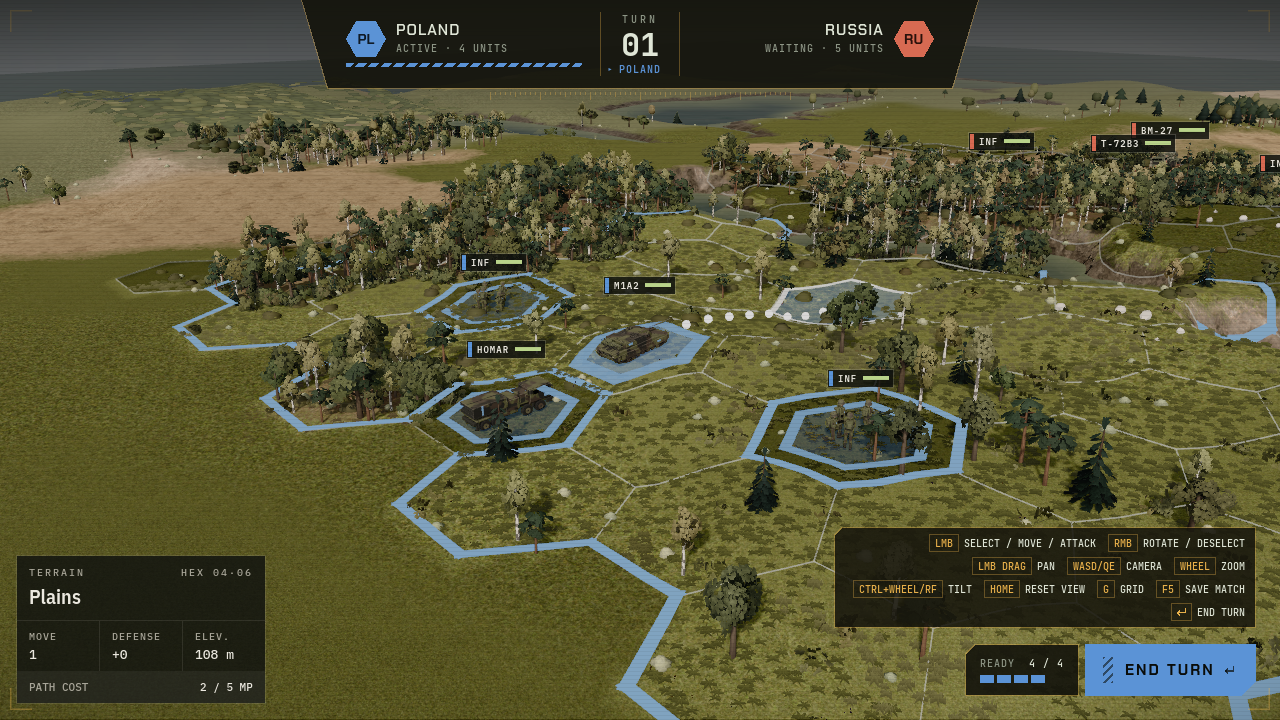
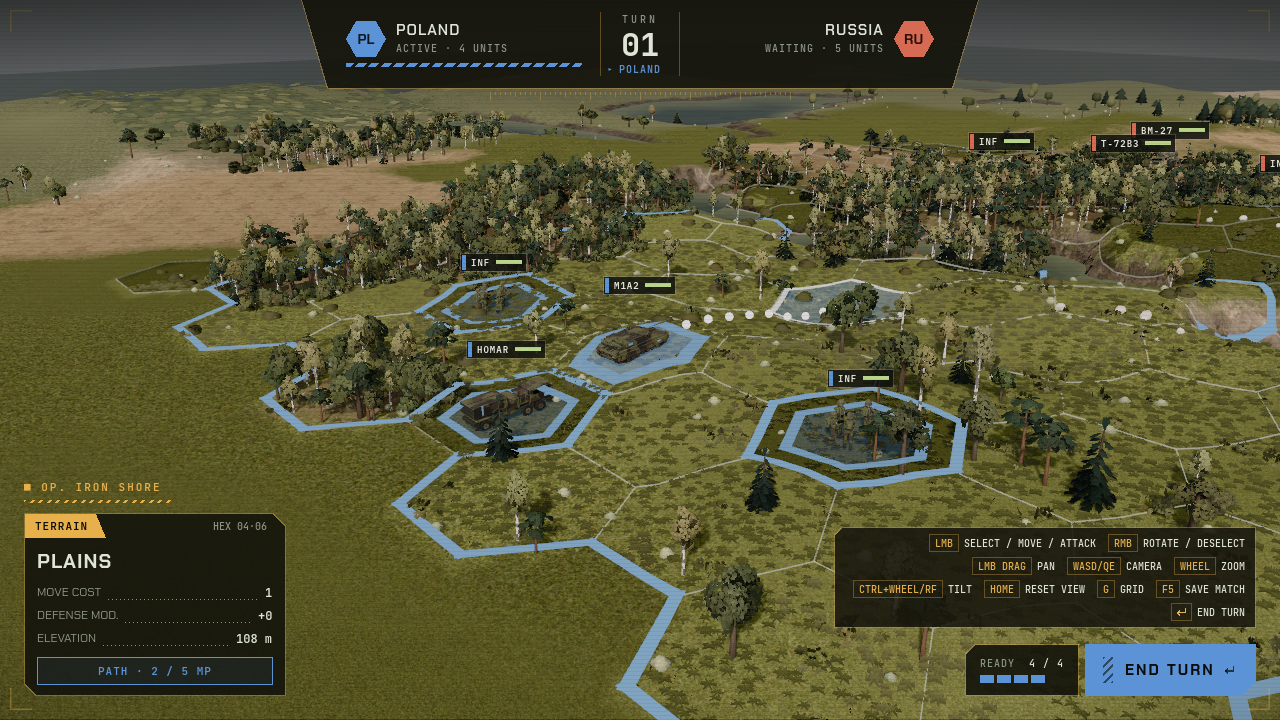
TASK-079: HUD v3 terrain card with dotted leaders, path row and operation label; playtested, done

diff --git a/docs/MANUAL.md b/docs/MANUAL.md
@@ -158,7 +158,7 @@ Russia is played by a simple computer opponent that follows the same rules as yo
   - **Stats**: Attack, Defense, Moves (left / per turn) and Range, each with its number and a short bar. Attack and Defense bars are full at 10, Moves and Range bars at 6. Defense includes the terrain bonus of the unit's tile, e.g. `5 (3+2)` on hills, and its bar shows that total.
   - **Mobility tag**: how the unit moves – FOOT (infantry), WHEELED (rocket artillery) or TRACKED (tanks). For now this is information only; all units pay the same movement costs.
   - **Status**: a small hexagon and a line saying READY (green), READY · ALREADY ATTACKED (green), DONE THIS TURN (grey) or ENEMY UNIT (in the enemy's colour).
-- **Terrain panel** (bottom left): the hovered tile's terrain, hex position (column·row), movement cost, defense bonus and elevation, plus the path cost when you have a unit selected and the tile is reachable.
+- **Terrain panel** (bottom left): the hovered tile's terrain, hex position (column·row), movement cost, defense bonus and elevation, plus a `PATH · 2 / 5 MP` row (in your faction colour) when you have a unit selected and the tile is reachable. Above the panel, `■ OP. IRON SHORE` names the operation.
 - **Selection**: selecting a unit outlines the area it can reach in your colour and slightly darkens the rest of the map; the tile under the cursor is tinted when the unit can move there. Water is never darkened, and unreachable tiles inside the area (such as a lake) get their own outline.
 - **Beyond the map edge**: the land around the map (a little greyer and paler, with trees on HIGH graphics) is scenery only. You can't hover or click tiles there, units can't go there, and the camera can't be panned off the map.
 - **Hex grid**: a faint light grid marks the hexes on land (not over water). It fades as you zoom out and is a little stronger while a unit is selected. Press **G** to hide or show it.

diff --git a/docs/tasks/BACKLOG.md b/docs/tasks/BACKLOG.md
@@ -79,7 +79,7 @@ Rows after TASK-001 are in priority order (top = next to implement).
 | [TASK-076](TASK-076-hud-v3-foundation.md) | HUD v3 foundation (handoff `docs/design/hud_v3/`): Chakra Petch + JetBrains Mono fonts, tokens in `UiPalette`, chamfer / frame / hatch primitives (`HudShapes`, `FramedPanel`), vignette + scanlines + corner brackets | 🔵 done | – |
 | [TASK-077](TASK-077-hud-v3-turn-bar-end-turn.md) | HUD v3: trapezoid turn bar with tick ruler, ready counter + end-turn button, keycap hints | 🔵 done | **TASK-076** |
 | [TASK-078](TASK-078-hud-v3-unit-card.md) | HUD v3: unit hover card (crosshair portrait, segmented HP, bar stats, bracket tags; rank chip waits for ranks) | 🔵 done | **TASK-076** (soft: TASK-082) |
-| [TASK-079](TASK-079-hud-v3-terrain-card.md) | HUD v3: terrain card with dotted leaders + operation label (`operation_name` in the scenario) | 🟢 ready | **TASK-076** |
+| [TASK-079](TASK-079-hud-v3-terrain-card.md) | HUD v3: terrain card with dotted leaders + operation label (`operation_name` in the scenario) | 🔵 done | **TASK-076** |
 | [TASK-080](TASK-080-hud-v3-notices.md) | HUD v3: turn banner, toast, targeting bar, loading screen | 🟢 ready | **TASK-076** (soft: TASK-077, TASK-079) |
 | [TASK-081](TASK-081-unit-orders-rules.md) | Unit orders as rules (blind fire, smoke, ambush, relocate, resupply, dig in, camouflage): game-designer pass first, then core/AI tasks | 💡 idea | GDD decisions by the human (soft: TASK-039b) |
 | [TASK-082](TASK-082-hud-v3-radial-orders-menu.md) | HUD v3: radial orders menu on RMB (geometry, detail card, keys 1–6, targeting mode) | 🔴 blocked | **TASK-076**, **TASK-081** (soft: TASK-080, TASK-078) |

diff --git a/docs/tasks/TASK-079-hud-v3-terrain-card.md b/docs/tasks/TASK-079-hud-v3-terrain-card.md
@@ -1,6 +1,6 @@
 # TASK-079: HUD v3 – terrain card and operation label
 
-- **Status**: ready
+- **Status**: done
 - **Layers**: presentation (`TerrainPanel` rebuilt, `TerrainPanelModel` extended), scenario data (operation name), localisation, tests. Role: **presentation-engineer**.
 - **Depends on**: **TASK-076**
 - **Model**: sonnet
@@ -36,4 +36,7 @@ Cities/roads (TASK-035).
 
 ## Implementation notes
 
-_Filled in by the agent when done._
+- `GameState.operation_name` (set by `Scenario.default_battle` = "Iron Shore", not in `snapshot()`); replays rebuild it, `MatchRecord` is unchanged so old saves load as before.
+- `TerrainPanelModel.build` gained an optional `city_name` → `"city"` key (no cities yet, so never shown in game).
+- `TerrainPanel` is now a `FramedPanel` (tab, chamfer, dotted `_Leader` rows, bracket tags, path row in the selected unit's faction colour); new `OperationLabel` (amber label + 150×3 hatch) in the bottom-left stack; margin 16 → 24, gap 10. New strings in strings.csv.
+- Not seen in-game: the city line (no data) and the tooltip-free hover with a Polish locale; the README screenshot shows the card with the path row.
